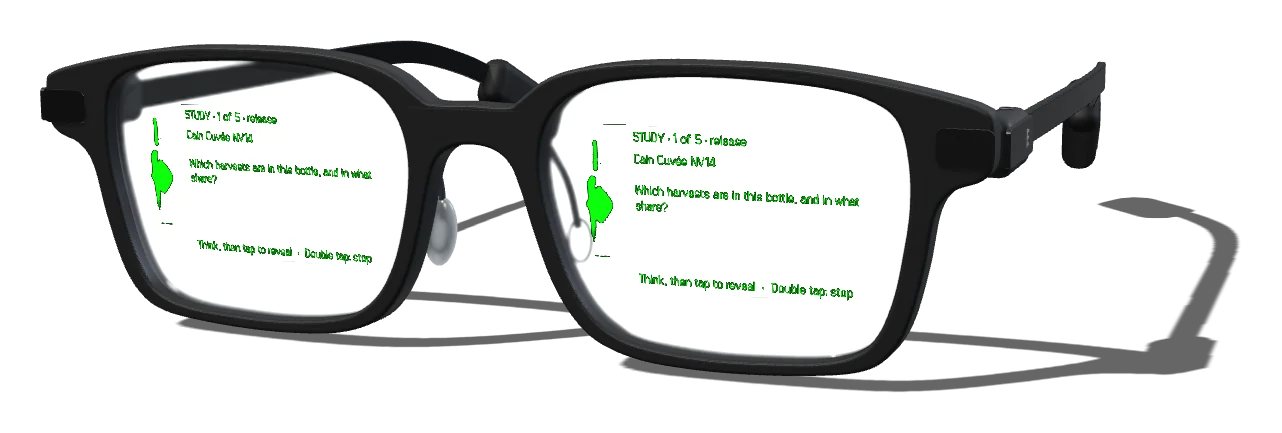
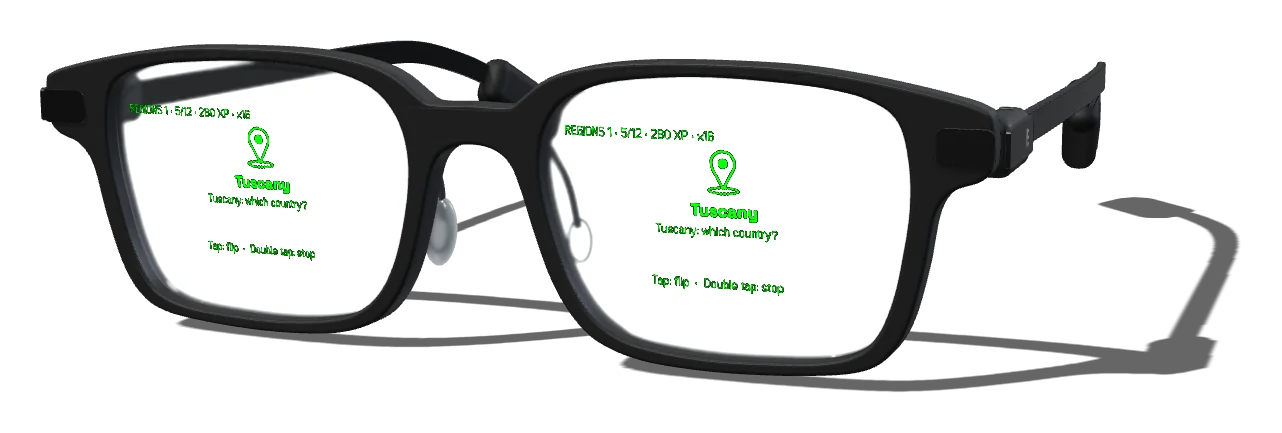
Site: Wine cards and Find My Wine sections, Find My Wine in the 3D viewer, new Study cards
- Wine cards (03): what a token buys, with an illustrated card (original bottle,
  catalog notes, year, map pin) and the price line.
- Find My Wine (04): the five questions, reasons, Winebrary-aware picks and the
  sommelier, with a 3D render of a real simulator capture.
- 3D viewer: a Find My Wine screen between Winebrary and Atlas.
- Study now shows the seasons flash cards (new capture and render, new copy).
- Nav link and two FAQ answers (wine cards, how Find My Wine chooses).
- render-showcase: render only named stills; SwiftShader off macOS.

Claude-Session: https://claude.ai/code/session_01BUt2YkG7vrXdoRQ2r3sZbM

diff --git a/site/index.html b/site/index.html
@@ -3,7 +3,7 @@
 <link rel="stylesheet" href="/g2b/showcase.css">
 <script type="module" src="/glasses-3d.ts"></script><script type="module" src="/main.ts"></script><link rel="icon" type="image/svg+xml" href="/brand/favicon.svg"><link rel="icon" type="image/png" sizes="32x32" href="/brand/favicon-32.png"><link rel="apple-touch-icon" href="/brand/app-icon-180.png"><link rel="manifest" href="/brand/manifest.webmanifest"><meta property="og:image" content="https://sommni-beige.vercel.app/brand/social-card.png"><meta name="twitter:card" content="summary_large_image"></head>
 <body><a class="skip" href="#main">Skip to content</a>
-<header class="nav"><a class="wordmark" href="/" aria-label="wineLENS home"><img src="/brand/lockup.svg" alt="wineLENS" width="189" height="40"></a><button class="menu-toggle" aria-expanded="false" aria-controls="nav-links">Menu <span aria-hidden="true">＋</span></button><nav id="nav-links" aria-label="Main"><a href="#glasses">Glasses</a><a href="#winebrary">Winebrary</a><a href="#atlas">Atlas</a><a href="#study">Study</a><a href="#pricing">Pricing</a><a href="#faq">FAQ</a><a class="nav-account" href="/link">Link glasses ↗</a><a class="button small" href="https://hub.evenrealities.com/" target="_blank" rel="noopener noreferrer">Get it in Even Hub ↗</a></nav></header>
+<header class="nav"><a class="wordmark" href="/" aria-label="wineLENS home"><img src="/brand/lockup.svg" alt="wineLENS" width="189" height="40"></a><button class="menu-toggle" aria-expanded="false" aria-controls="nav-links">Menu <span aria-hidden="true">＋</span></button><nav id="nav-links" aria-label="Main"><a href="#glasses">Glasses</a><a href="#winebrary">Winebrary</a><a href="#finder">Find My Wine</a><a href="#atlas">Atlas</a><a href="#study">Study</a><a href="#pricing">Pricing</a><a href="#faq">FAQ</a><a class="nav-account" href="/link">Link glasses ↗</a><a class="button small" href="https://hub.evenrealities.com/" target="_blank" rel="noopener noreferrer">Get it in Even Hub ↗</a></nav></header>
 <main id="main">
 <section class="hero wrap"><div class="hero-copy"><p class="eyebrow"><span class="dot"></span> A LITTLE CLARITY. A LOT OF CHARACTER.</p><h1>WINE.<br>IN.<br><em>FOCUS.</em></h1><p class="intro">Know the bottle.<br>Stay in the moment.</p><p class="hero-description">Tasting notes in your line of sight. A home for the wines you love. A little more to discover with every glass.</p><div class="actions"><a class="button" href="/link">Link your glasses <span>↗</span></a><a class="text-link" href="#glasses">Take a closer look ↓</a></div><p class="micro">Made for Even G2 · Free to start · Tokens from $5</p></div>
 <div class="hero-art"><span class="art-index">FIELD NOTES / 01</span><div class="lens-orbit" aria-hidden="true"><img src="/brand/symbol.svg" alt="" width="480" height="480"></div><figure class="hero-render"><img src="/media/lens/hero-notes.webp" width="1146" height="430" alt="Even G2 in 3D, turned three-quarters, with wineLENS tasting notes for Louis Latour Aloxe-Corton on both lenses: Pinot Noir, bright ruby with garnet hints, red cherry and raspberry compote." fetchpriority="high"></figure>
@@ -22,6 +22,7 @@
     <div class="g2b-features" role="group" aria-label="Choose a screen">
       <button type="button" data-g2b-beat="notes" aria-pressed="true">Tasting notes</button>
       <button type="button" data-g2b-beat="winebrary" aria-pressed="false">Winebrary</button>
+      <button type="button" data-g2b-beat="finder" aria-pressed="false">Find My Wine</button>
       <button type="button" data-g2b-beat="atlas" aria-pressed="false">Atlas</button>
       <button type="button" data-g2b-beat="study" aria-pressed="false">Study</button>
     </div>
@@ -39,10 +40,10 @@
 <p class="caption">RENDER / A 3D model of Even G2 with real wineLENS simulator captures on its lenses. It turns as you scroll; drag it round or pick a screen. Not a photograph, and not a claim of optical brightness.</p></div></section>
 <section id="winebrary" class="wrap section feature"><div class="feature-number" aria-hidden="true">02</div><div><p class="eyebrow">MY WINEBRARY</p><h2>Good taste<br><em>has a memory.</em></h2><p class="body-large">That bottle from dinner. The vintage you want to revisit. The one you’re saving for an occasion.</p><p>Keep them in a collection that belongs to your account. Add your own notes and bottle photographs. Save another vintage without losing the first. Or upload a whole wine list and keep the bottles you want.</p><a class="text-link" href="/link">Make room for your first bottle ↗</a></div><div class="collection-art"><div class="collection-word">YOUR<br>VERY<br>GOOD<br><em>TASTE.</em></div><figure class="collection-render"><img src="/media/lens/still-winebrary.webp" width="1278" height="426" alt="Even G2 in 3D with a Winebrary wine on its lenses: Grand Malbec 2017 with tasting notes, and the bottle standing on Mendoza on a dithered map of Argentina. Sample collection." loading="lazy"></figure>
 <div class="collection-footer"><span>Every bottle has a story.</span><span aria-hidden="true"><img class="brand-strip-mark" src="/brand/micro.svg" alt="" width="32" height="32"></span></div></div></section>
-<section id="atlas" class="atlas-section"><div class="wrap section feature"><div class="feature-number" aria-hidden="true">03</div><div><p class="eyebrow">WINE ATLAS</p><h2>A world<br><em>in your glass.</em></h2><p class="body-large">Start with the globe.<br>Find your way to the bottle.</p><p>Travel from country to region to wine. Explore the catalog, or follow the places in your own collection. Geography becomes something you can taste.</p><p class="micro">Globe → country → region → wine</p></div><figure class="render-card"><img src="/media/lens/still-atlas.webp" width="1145" height="430" alt="Even G2 in 3D with the Wine Atlas on its lenses: WINE ATLAS, 15 countries, Argentina, France, Italy, United States, Spain, beside a globe with Argentina lit." loading="lazy"><figcaption>RENDER / 3D G2 + real simulator capture · Wine Atlas</figcaption></figure></div></section>
-<section id="study" class="wrap section feature"><div class="feature-number" aria-hidden="true">04</div><div><p class="eyebrow">STUDY</p><h2>Less cramming.<br><em>More remembering.</em></h2><p class="body-large">A question. A moment to recall.<br>Then the answer, with its source.</p><p>Practice on your phone or G2. Rate what you remembered and let spaced recall bring it back when it’s due. Your review history stays with your linked account.</p><p class="micro">Recall → reveal → review → return</p></div><figure class="render-card"><img src="/media/lens/still-study.webp" width="1282" height="433" alt="Even G2 in 3D with a Study card on its lenses: STUDY 1 of 5, Cain Cuvée NV14, Which harvests are in this bottle, and in what share? beside the bottle." loading="lazy"><figcaption>RENDER / 3D G2 + real simulator capture · Study</figcaption></figure></section>
+<section id="cards" class="tint-section"><div class="wrap section feature"><div class="feature-number" aria-hidden="true">03</div><div><p class="eyebrow">WINE CARDS</p><h2>Your bottle.<br><em>Your card.</em></h2><p class="body-large">Every wine you keep can become a card: the bottle in 3D, its tasting notes, the year, and a pin on your map.</p><p>Make one for a single bottle, or for every wine on a list you just saved. It lives in your Winebrary and right on your glasses. One token a card, and your first three are on us.</p><p class="micro">1 card = 1 token · a 100-wine list is $20</p><a class="text-link" href="#pricing">See pricing ↓</a></div><figure class="wine-card-art"><div class="wine-card"><div class="wine-card-bottle"><svg viewBox="0 0 120 360" role="img" aria-label="An original wine bottle with a plain label reading Malbec 2017"><defs><linearGradient id="wc-glass" x1="0" x2="1"><stop offset="0" stop-color="#1A0E10"/><stop offset=".28" stop-color="#5A2430"/><stop offset=".55" stop-color="#2B1418"/><stop offset="1" stop-color="#120A0B"/></linearGradient><linearGradient id="wc-cap" x1="0" x2="1"><stop offset="0" stop-color="#4A1A24"/><stop offset=".35" stop-color="#9A4352"/><stop offset="1" stop-color="#3A1219"/></linearGradient><linearGradient id="wc-shine" x1="0" x2="1"><stop offset="0" stop-color="#fff" stop-opacity="0"/><stop offset=".5" stop-color="#fff" stop-opacity=".38"/><stop offset="1" stop-color="#fff" stop-opacity="0"/></linearGradient></defs><ellipse cx="60" cy="352" rx="44" ry="6" fill="#5B1C2A" opacity=".18"/><path d="M47 70 L47 118 C47 148 21 158 21 196 L21 338 Q21 350 33 350 L87 350 Q99 350 99 338 L99 196 C99 158 73 148 73 118 L73 70 Z" fill="url(#wc-glass)"/><rect x="45" y="8" width="30" height="70" rx="4" fill="url(#wc-cap)"/><rect x="45" y="70" width="30" height="5" fill="#2A0F14" opacity=".6"/><path d="M31 196 C31 170 50 160 53 132 L57 132 C55 162 37 172 37 198 L37 330 L31 330 Z" fill="url(#wc-shine)"/><rect x="29" y="222" width="62" height="84" fill="#FBF7EF"/><rect x="29" y="222" width="62" height="84" fill="none" stroke="#C9B7AB" stroke-width=".8"/><text x="60" y="252" text-anchor="middle" font-size="9" letter-spacing="2" fill="#772B39" font-family="Space, sans-serif" font-weight="700">MALBEC</text><line x1="40" y1="262" x2="80" y2="262" stroke="#772B39" stroke-width=".8"/><text x="60" y="284" text-anchor="middle" font-size="15" fill="#302822" font-family="Space, sans-serif">2017</text></svg></div><div class="wine-card-body"><p class="eyebrow">RED · MALBEC</p><h3>Grand Malbec <span>2017</span></h3><p class="wine-card-place">Terrazas de los Andes · Mendoza, Argentina</p><dl><div><dt>NOSE</dt><dd>Ripe blackberry, plum, violet, cocoa, sweet spice.</dd></div><div><dt>PALATE</dt><dd>Full body, firm tannins. Concentrated dark fruit with chocolate and spice.</dd></div></dl><p class="wine-card-pin"><span aria-hidden="true">◉</span> On your map · Mendoza</p></div></div><ol class="wine-card-parts"><li><span>01</span>A 3D bottle image</li><li><span>02</span>Tasting notes</li><li><span>03</span>The year</li><li><span>04</span>A pin on your map</li></ol><figcaption>ILLUSTRATION / What a wine card holds. Every bottle gets an original label, made from your photo or the wine’s details.</figcaption></figure></div></section><section id="finder" class="wrap section feature"><div class="feature-number" aria-hidden="true">04</div><div><p class="eyebrow">FIND MY WINE</p><h2>Ask like<br><em>a sommelier.</em></h2><p class="body-large">The moment. The food.<br>How it should feel.</p><p>Five quick questions on your glasses or phone, then picks from the catalog and your own Winebrary, each with the reason a sommelier would give. Tap one for its notes, tap again to keep it. Want something beyond the list? Ask the sommelier for three real bottles from anywhere.</p><p class="micro">Moment → food → colour → feel → flavour</p></div><figure class="render-card"><img src="/media/lens/still-finder.webp" width="1145" height="430" alt="Even G2 in 3D with Find My Wine on its lenses: picks for a steak dinner, Barbaresco by Gaja highlighted beside its bottle, with the reasons: tannin and depth for red meat, Nebbiolo is a classic; bold and powerful; on the nose, cherry." loading="lazy"><figcaption>RENDER / 3D G2 + real simulator capture · Find My Wine</figcaption></figure></section><section id="atlas" class="atlas-section"><div class="wrap section feature"><div class="feature-number" aria-hidden="true">05</div><div><p class="eyebrow">WINE ATLAS</p><h2>A world<br><em>in your glass.</em></h2><p class="body-large">Start with the globe.<br>Find your way to the bottle.</p><p>Travel from country to region to wine. Explore the catalog, or follow the places in your own collection. Geography becomes something you can taste.</p><p class="micro">Globe → country → region → wine</p></div><figure class="render-card"><img src="/media/lens/still-atlas.webp" width="1145" height="430" alt="Even G2 in 3D with the Wine Atlas on its lenses: WINE ATLAS, 15 countries, Argentina, France, Italy, United States, Spain, beside a globe with Argentina lit." loading="lazy"><figcaption>RENDER / 3D G2 + real simulator capture · Wine Atlas</figcaption></figure></div></section>
+<section id="study" class="wrap section feature"><div class="feature-number" aria-hidden="true">06</div><div><p class="eyebrow">STUDY</p><h2>Less cramming.<br><em>More remembering.</em></h2><p class="body-large">A card. A moment to recall.<br>Then flip it, and keep your streak.</p><p>Seasons of flash cards on grapes, regions, tasting notes and the people behind the bottles, each with a glyph at its centre. Clear a stage, earn stars, beat the boss. Daily review brings back what you are about to forget. Your progress stays with your linked account.</p><p class="micro">Meet → recall → flip → remember</p></div><figure class="render-card"><img src="/media/lens/still-study.webp" width="1282" height="433" alt="Even G2 in 3D with a Study flash card on its lenses: REGIONS 1, 5 of 12, 280 XP, a map pin glyph centred above Tuscany, and the question Tuscany: which country?" loading="lazy"><figcaption>RENDER / 3D G2 + real simulator capture · Study</figcaption></figure></section>
 <section id="how" class="link-section"><div class="wrap section"><p class="eyebrow">ONE ACCOUNT. A SMALL CONNECTION.</p><div class="section-heading inline"><h2>Three steps.<br><em>You’re in.</em></h2><a class="button light" href="/link">Link your account ↗</a></div><ol class="steps"><li><span>01</span><h3>Open the link page.</h3><p>Continue with Google in your phone’s browser. No password to remember.</p></li><li><span>02</span><h3>Get your code.</h3><p>Eight characters, made for you. The code works once and lasts ten minutes.</p></li><li><span>03</span><h3>Make the connection.</h3><p>In wineLENS inside the Even app, choose Link account and enter your code.</p></li></ol></div></section>
 <section id="pricing" class="wrap section"><p class="eyebrow">A PLAN FOR YOUR CURIOSITY</p><h2>Start free.<br><em>Pay per wine card.</em></h2><div id="pricing-cards" class="pricing-grid"></div><p id="pricing-tokens"></p><p id="pricing-rates" class="fine"></p><p class="fine">USD. The app is free, with no subscription. Your first token pack unlocks the larger monthly allowances for life; they reset on your purchase anniversary. Billing opens after launch setup. Tokens never expire. <a href="/terms">Terms and refunds</a>.</p><a class="text-link" href="/link">Your plan and usage ↗</a></section>
-<section id="faq" class="wrap section faq"><div><p class="eyebrow">A FEW STRAIGHT ANSWERS</p><h2>Before<br><em>you pour.</em></h2></div><div class="faq-items"><details><summary>Is wineLENS free?</summary><p>Yes. The catalog, tasting notes, Atlas, Study, manual add and your own bottle photos are free. Free includes five label scans, five drafted tasting notes and a small wine-list allowance each month (notes someone has already drafted for the same bottle and vintage are always free). Your first three wine cards are on us. After that, wine cards are one token each, with tokens from $5 (20 cards), and your first pack also unlocks larger monthly allowances for life.</p></details><details><summary>Can I upload a wine list?</summary><p>Yes. Photograph its pages (up to six at a time), upload a PDF, paste the text or choose a spreadsheet (CSV). wineLENS reads every wine, matches it to the catalog, places it on the globe and shows which already have notes. You review every wine before anything is saved. Free includes one photo page and 20 text pages a month, and after your first token pack 20 photo pages and 100 text pages; after that each page uses one token. Spreadsheets are always free. Then make wine cards for the whole list: one token each, so a 100-wine list is $20.</p></details><details><summary>What are tokens?</summary><p>1 token = 1 wine card: a 3D bottle image, tasting notes, the year and a pin on your map, every time. Included allowances are used first for scans and lists, then tokens only with your consent or Always allow enabled. A failed generation returns its allowance or tokens.</p></details><details><summary>Do tokens expire? Can I get a refund?</summary><p>Tokens never expire. Purchases are generally non-refundable once used; contact ops@d3hospitality.com about unused purchases or billing errors. Statutory refund rights remain unaffected. See our <a href="/terms">terms</a>.</p></details><details><summary>Is there a subscription?</summary><p>No. The app is free. You buy tokens only when you want more wine cards, in packs from $5 to $50. Tokens never expire. Deleting your account forfeits the balance, subject to applicable refund rights.</p></details><details><summary>What do I need?</summary><p>Even G2 glasses and the Even app for the glasses experience. The phone companion runs inside Even Hub. Use a regular browser for Google sign-in.</p></details><details><summary>Is my collection private?</summary><p>Your Winebrary is tied to your account. Other users cannot browse it. The shared wine reference catalog is separate from your own bottles, photos and notes.</p></details><details><summary>What data is stored?</summary><p>Your Google account email and profile, saved bottles and photos, tasting notes, study reviews and linked-device records. The app also keeps local companion data. See our <a href="/privacypolicy">privacy policy</a> for the full picture.</p></details><details><summary>Can I use it without an account?</summary><p>You can explore the reference catalog, Atlas and local study. Link an account to save a private Winebrary and sync study reviews. An internet connection is needed for account linking and cloud features.</p></details><details><summary>Can I unlink a device or delete my account?</summary><p>Yes. Sign in on the <a href="/link">link page</a> to revoke a device or confirm account deletion. Deletion removes your account, private collection, cloud photos and account study reviews. It cannot be undone. Locally saved data on offline devices clears when the app reconnects and checks the account.</p></details></div></section>
+<section id="faq" class="wrap section faq"><div><p class="eyebrow">A FEW STRAIGHT ANSWERS</p><h2>Before<br><em>you pour.</em></h2></div><div class="faq-items"><details><summary>Is wineLENS free?</summary><p>Yes. The catalog, tasting notes, Atlas, Study, manual add and your own bottle photos are free. Free includes five label scans, five drafted tasting notes and a small wine-list allowance each month (notes someone has already drafted for the same bottle and vintage are always free). Your first three wine cards are on us. After that, wine cards are one token each, with tokens from $5 (20 cards), and your first pack also unlocks larger monthly allowances for life.</p></details><details><summary>What is a wine card?</summary><p>A wine card turns a bottle you keep into its own page: a 3D bottle image (from your label photo, or an original label drawn from the wine’s details), tasting notes, the vintage and a pin on your map and glasses. Each card uses one token, every time it is made. Your first three are on us.</p></details><details><summary>How does Find My Wine choose?</summary><p>It asks about the moment, the food, the colour, how the wine should feel and the flavours you want, then scores every wine in the catalog and your Winebrary with classic pairing rules and shows the reasons with each pick. It learns from what you keep. Ask the sommelier for three real bottles beyond the catalog: three free a month, then one token each.</p></details><details><summary>Can I upload a wine list?</summary><p>Yes. Photograph its pages (up to six at a time), upload a PDF, paste the text or choose a spreadsheet (CSV). wineLENS reads every wine, matches it to the catalog, places it on the globe and shows which already have notes. You review every wine before anything is saved. Free includes one photo page and 20 text pages a month, and after your first token pack 20 photo pages and 100 text pages; after that each page uses one token. Spreadsheets are always free. Then make wine cards for the whole list: one token each, so a 100-wine list is $20.</p></details><details><summary>What are tokens?</summary><p>1 token = 1 wine card: a 3D bottle image, tasting notes, the year and a pin on your map, every time. Included allowances are used first for scans and lists, then tokens only with your consent or Always allow enabled. A failed generation returns its allowance or tokens.</p></details><details><summary>Do tokens expire? Can I get a refund?</summary><p>Tokens never expire. Purchases are generally non-refundable once used; contact ops@d3hospitality.com about unused purchases or billing errors. Statutory refund rights remain unaffected. See our <a href="/terms">terms</a>.</p></details><details><summary>Is there a subscription?</summary><p>No. The app is free. You buy tokens only when you want more wine cards, in packs from $5 to $50. Tokens never expire. Deleting your account forfeits the balance, subject to applicable refund rights.</p></details><details><summary>What do I need?</summary><p>Even G2 glasses and the Even app for the glasses experience. The phone companion runs inside Even Hub. Use a regular browser for Google sign-in.</p></details><details><summary>Is my collection private?</summary><p>Your Winebrary is tied to your account. Other users cannot browse it. The shared wine reference catalog is separate from your own bottles, photos and notes.</p></details><details><summary>What data is stored?</summary><p>Your Google account email and profile, saved bottles and photos, tasting notes, study reviews and linked-device records. The app also keeps local companion data. See our <a href="/privacypolicy">privacy policy</a> for the full picture.</p></details><details><summary>Can I use it without an account?</summary><p>You can explore the reference catalog, Atlas and local study. Link an account to save a private Winebrary and sync study reviews. An internet connection is needed for account linking and cloud features.</p></details><details><summary>Can I unlink a device or delete my account?</summary><p>Yes. Sign in on the <a href="/link">link page</a> to revoke a device or confirm account deletion. Deletion removes your account, private collection, cloud photos and account study reviews. It cannot be undone. Locally saved data on offline devices clears when the app reconnects and checks the account.</p></details></div></section>
 <section class="closing wrap"><p class="eyebrow">FOR CURIOUS PALATES.</p><h2>A little more<br><em>in focus.</em></h2><a class="button" href="/link">Link your glasses ↗</a><p class="micro">Free to start · tokens from $5, no subscription. Made for Even G2.</p></section>
 </main><footer class="footer wrap"><a class="wordmark" href="/"><img src="/brand/lockup.svg" alt="wineLENS" width="189" height="40"></a><p>WINE. IN. FOCUS.<br>A D3 Hospitality project.</p><nav aria-label="Footer"><a href="/privacypolicy">Privacy</a><a href="/terms">Terms</a><a href="mailto:ops@d3hospitality.com">Contact ↗</a></nav><small>© 2026 D3 Hospitality</small></footer></body></html>

diff --git a/site/style.css b/site/style.css
@@ -4,8 +4,8 @@
 /* Link and policy pages */
 .account-main{padding-block:68px 90px;display:grid;grid-template-columns:1fr 1.1fr;gap:85px;align-items:start;min-height:calc(100vh - 206px)}.account-intro h1,.legal h1{font-size:clamp(44px,5.7vw,76px);line-height:1.02;letter-spacing:-.065em;margin:24px 0}.account-intro>p:not(.eyebrow){font-size:15px;max-width:360px}.account-intro .account-steps{margin:38px 0 0;padding:0;list-style:none;counter-reset:step}.account-steps li{counter-increment:step;border-top:1px solid var(--line);padding:19px 0;font-size:13px;display:flex;gap:25px}.account-steps li:before{content:'0' counter(step);color:var(--oxblood);font-size:12px}.account-panel{border:1px solid var(--line);padding:36px;background:#FFFDF8;min-width:0}.account-panel h2{font-size:28px}.account-panel>p{font-size:13px;margin-top:18px}.account-panel .button{width:100%;margin-top:24px}.account-icon{font-size:64px;color:var(--oxblood);margin-bottom:30px;line-height:1}.account-panel .eyebrow{margin-bottom:18px}.account-panel .fine{font-size:11px;color:var(--muted)}.status{font-size:13px;line-height:1.6;overflow-wrap:anywhere}.status:not(:empty){margin-top:22px;padding:14px;background:var(--blush)}.account-panel .email{overflow-wrap:anywhere;font-size:13px;margin:15px 0 25px}.code-panel{background:var(--ivory);padding:28px 12px;text-align:center;border:1px solid var(--line)}.code-value{font-size:clamp(26px,3vw,40px);font-weight:700;letter-spacing:.12em;color:var(--oxblood);display:block;margin:12px 0}.code-panel p{font-size:12px}.code-actions{display:flex;gap:12px}.code-actions .button{font-size:12px;padding:13px 8px;margin-top:16px;gap:0}.device-section{margin-top:32px;border-top:1px solid var(--line);padding-top:24px}.device-section h3{font-size:19px}.device-list{list-style:none;margin:18px 0;padding:0}.device-list li{display:flex;justify-content:space-between;gap:16px;padding:17px 0;border-bottom:1px solid var(--line);font-size:13px;align-items:center}.device-list small{display:block;color:var(--muted);font-size:10px;margin-top:5px}.plain-button{background:none;border:0;padding:12px 0;min-height:44px;text-decoration:underline;text-underline-offset:4px;font-size:12px;color:var(--oxblood)}.account-bottom{display:flex;justify-content:space-between;gap:20px;margin-top:22px}.confirm-dialog{max-width:min(480px,calc(100% - 36px));border:1px solid var(--line);background:var(--ivory);color:var(--ink);padding:32px}.confirm-dialog::backdrop{background:#302822aa}.confirm-dialog h2{font-size:32px}.confirm-dialog p{font-size:14px;margin:18px 0}.confirm-dialog label{display:block;font-size:13px}.confirm-dialog input{width:100%;background:#fff;border:1px solid var(--line);padding:13px;margin:12px 0}.confirm-dialog .button{width:100%}.legal{max-width:780px;padding-block:64px 90px}.legal h2{font-size:26px;margin:34px 0 14px}.legal p,.legal li{font-size:15px;line-height:1.8}.legal .eyebrow{font-size:11px}.legal p+p{margin-top:16px}
 @media(min-width:1600px){.hero{min-height:820px}}
-@media(max-width:1100px){.nav nav{gap:14px}.nav{gap:20px}.nav nav>a:nth-child(-n+5){display:none}.hero{gap:28px}.hero-art{padding:25px}.actions{flex-wrap:wrap;gap:18px}.feature{grid-template-columns:40px 1fr 1fr;gap:26px}.surface-card{padding:28px}.account-main{gap:42px}}
-@media(max-width:700px){:root{scroll-padding-top:84px}.wrap{width:calc(100% - 40px)}.section{padding-block:64px}.nav{min-height:74px;padding:16px 20px;flex-wrap:wrap}.wordmark{font-size:26px}.menu-toggle{display:flex;gap:20px;background:none;border:1px solid var(--line);padding:10px 12px;font-size:12px;min-height:42px}.nav nav{display:none;width:100%;padding:15px 0;flex-direction:column;align-items:stretch;gap:0}.nav nav.open{display:flex}.nav nav>a:nth-child(-n+5){display:block}.nav nav>a{padding:14px 0}.nav-account{border-left:0}.nav nav .button{padding:15px}.hero{grid-template-columns:1fr;gap:35px;padding-top:32px;padding-bottom:36px;min-height:0}.hero-copy>.eyebrow{font-size:9px;letter-spacing:.065em}.hero-copy h1{font-size:92px;margin:27px 0 24px}.intro{font-size:24px}.hero-description{font-size:14px;max-width:315px}.actions{gap:22px;margin-top:24px}.button{font-size:12px;padding:16px 19px}.hero-art{min-height:395px;padding:26px;margin-top:0}.art-index{left:20px;top:20px}.lens-orbit{font-size:420px;top:5px}.hero-screen{padding:16px 13px;margin-top:10px}.vintage-note{width:72%;padding:14px 19px;margin-top:16px}.vintage-note .eyebrow{font-size:9px}.vintage-note>span:last-child{font-size:31px}.art-caption{font-size:8px;bottom:16px;left:20px}.loop-strip{font-size:22px;padding:23px 13px;gap:7px}.loop-strip span:last-child{display:none}h2{font-size:40px}.section-heading{margin-bottom:32px}.eyebrow{font-size:10px}.surface-grid{grid-template-columns:1fr;gap:18px}.surface-card{padding:27px}.surface-card h3{font-size:27px}.surface-card>img{margin-top:28px}.phone-slice{height:210px}.model-section{padding-top:58px}.model-heading{display:block}.model-heading>p{margin-top:24px}.model-heading h2{font-size:37px}.g2-viewer{height:295px;margin-top:18px}.g2-viewer>img{max-width:100%}.g2-viewer>button{bottom:6px}.model-controls{flex-direction:column;align-items:stretch;margin-top:15px}.model-controls label{justify-content:space-between}.screen-choices button{flex:1;padding:10px}.model-section .caption{font-size:9px}.feature{grid-template-columns:1fr;gap:28px}.feature-number{display:none}.feature .eyebrow{margin-bottom:19px}.feature .body-large{font-size:20px;margin-top:23px}.collection-art{padding:30px}.collection-word{font-size:66px}.capture-card{padding:18px}.capture-card figcaption{font-size:9px}.inline{align-items:flex-start;gap:24px;flex-direction:column}.steps{grid-template-columns:1fr;gap:28px;margin-top:34px}.steps h3{margin-top:15px;font-size:23px}.steps p{max-width:100%}.faq{grid-template-columns:1fr;gap:30px}.faq-items summary{font-size:15px;padding-block:23px}.closing{padding-block:62px}.closing h2{font-size:56px}.footer{flex-wrap:wrap;gap:24px;padding-block:28px}.footer>.wordmark{width:45%}.footer>p{width:45%}.footer nav{gap:26px}.footer small{width:100%}.account-main{grid-template-columns:1fr;gap:32px;padding-top:38px;padding-bottom:50px}.account-intro h1{font-size:57px}.account-intro .account-steps{margin-top:24px}.account-steps li{padding:14px 0;font-size:12px}.account-panel{padding:25px}.account-icon{font-size:50px;margin-bottom:24px}.account-panel h2{font-size:28px}.code-value{font-size:29px;letter-spacing:.085em}.account-bottom{gap:12px}.plain-button{font-size:11px}.legal{padding-top:38px}.legal h1{font-size:53px}.legal h2{font-size:25px}}
+@media(max-width:1100px){.nav nav{gap:14px}.nav{gap:20px}.nav nav>a:nth-child(-n+6){display:none}.hero{gap:28px}.hero-art{padding:25px}.actions{flex-wrap:wrap;gap:18px}.feature{grid-template-columns:40px 1fr 1fr;gap:26px}.surface-card{padding:28px}.account-main{gap:42px}}
+@media(max-width:700px){:root{scroll-padding-top:84px}.wrap{width:calc(100% - 40px)}.section{padding-block:64px}.nav{min-height:74px;padding:16px 20px;flex-wrap:wrap}.wordmark{font-size:26px}.menu-toggle{display:flex;gap:20px;background:none;border:1px solid var(--line);padding:10px 12px;font-size:12px;min-height:42px}.nav nav{display:none;width:100%;padding:15px 0;flex-direction:column;align-items:stretch;gap:0}.nav nav.open{display:flex}.nav nav>a:nth-child(-n+6){display:block}.nav nav>a{padding:14px 0}.nav-account{border-left:0}.nav nav .button{padding:15px}.hero{grid-template-columns:1fr;gap:35px;padding-top:32px;padding-bottom:36px;min-height:0}.hero-copy>.eyebrow{font-size:9px;letter-spacing:.065em}.hero-copy h1{font-size:92px;margin:27px 0 24px}.intro{font-size:24px}.hero-description{font-size:14px;max-width:315px}.actions{gap:22px;margin-top:24px}.button{font-size:12px;padding:16px 19px}.hero-art{min-height:395px;padding:26px;margin-top:0}.art-index{left:20px;top:20px}.lens-orbit{font-size:420px;top:5px}.hero-screen{padding:16px 13px;margin-top:10px}.vintage-note{width:72%;padding:14px 19px;margin-top:16px}.vintage-note .eyebrow{font-size:9px}.vintage-note>span:last-child{font-size:31px}.art-caption{font-size:8px;bottom:16px;left:20px}.loop-strip{font-size:22px;padding:23px 13px;gap:7px}.loop-strip span:last-child{display:none}h2{font-size:40px}.section-heading{margin-bottom:32px}.eyebrow{font-size:10px}.surface-grid{grid-template-columns:1fr;gap:18px}.surface-card{padding:27px}.surface-card h3{font-size:27px}.surface-card>img{margin-top:28px}.phone-slice{height:210px}.model-section{padding-top:58px}.model-heading{display:block}.model-heading>p{margin-top:24px}.model-heading h2{font-size:37px}.g2-viewer{height:295px;margin-top:18px}.g2-viewer>img{max-width:100%}.g2-viewer>button{bottom:6px}.model-controls{flex-direction:column;align-items:stretch;margin-top:15px}.model-controls label{justify-content:space-between}.screen-choices button{flex:1;padding:10px}.model-section .caption{font-size:9px}.feature{grid-template-columns:1fr;gap:28px}.feature-number{display:none}.feature .eyebrow{margin-bottom:19px}.feature .body-large{font-size:20px;margin-top:23px}.collection-art{padding:30px}.collection-word{font-size:66px}.capture-card{padding:18px}.capture-card figcaption{font-size:9px}.inline{align-items:flex-start;gap:24px;flex-direction:column}.steps{grid-template-columns:1fr;gap:28px;margin-top:34px}.steps h3{margin-top:15px;font-size:23px}.steps p{max-width:100%}.faq{grid-template-columns:1fr;gap:30px}.faq-items summary{font-size:15px;padding-block:23px}.closing{padding-block:62px}.closing h2{font-size:56px}.footer{flex-wrap:wrap;gap:24px;padding-block:28px}.footer>.wordmark{width:45%}.footer>p{width:45%}.footer nav{gap:26px}.footer small{width:100%}.account-main{grid-template-columns:1fr;gap:32px;padding-top:38px;padding-bottom:50px}.account-intro h1{font-size:57px}.account-intro .account-steps{margin-top:24px}.account-steps li{padding:14px 0;font-size:12px}.account-panel{padding:25px}.account-icon{font-size:50px;margin-bottom:24px}.account-panel h2{font-size:28px}.code-value{font-size:29px;letter-spacing:.085em}.account-bottom{gap:12px}.plain-button{font-size:11px}.legal{padding-top:38px}.legal h1{font-size:53px}.legal h2{font-size:25px}}
 @media(prefers-reduced-motion:reduce){:root{scroll-behavior:auto}*,*::before,*::after{animation:none!important;transition:none!important}}
 
 /* ── 3D showcase (vendored g2b, themed for Atelier) ── */
@@ -38,3 +38,23 @@
 /* Focus Pour identity: keep the 3D showcase and account behavior intact. */
 .wordmark{display:inline-flex;align-items:center;line-height:1}.wordmark img{height:40px;width:auto;max-width:none}.lens-orbit{display:grid;place-items:center;inset:0;pointer-events:none}.lens-orbit img{width:85%;height:auto;opacity:.13}.brand-strip-mark{width:32px;height:32px}.account-icon img{width:72px;height:72px}
 @media(max-width:700px){.wordmark img{height:32px}.lens-orbit img{width:90%}.brand-strip-mark{width:24px;height:24px}}
+/* Wine cards: what a token buys (an illustration of a card, not a capture) */
+.tint-section{background:#F0E8DD}
+.wine-card-art{margin:0;background:var(--blush);padding:36px;display:grid;gap:24px}
+.wine-card{display:grid;grid-template-columns:118px 1fr;gap:26px;align-items:center;background:#FFFDF8;border:1px solid var(--line);padding:26px;box-shadow:0 24px 44px rgb(91 28 42 / .13);transform:rotate(-1.4deg)}
+.wine-card-bottle svg{display:block;width:100%;height:auto}
+.wine-card .eyebrow{color:var(--oxblood);margin:0 0 8px}
+.wine-card h3{font-size:30px;margin:0}
+.wine-card h3 span{color:var(--oxblood)}
+.wine-card-place{font-size:12px;color:var(--muted);margin:6px 0 14px}
+.wine-card dl{margin:0;display:grid;gap:10px;border-top:1px solid var(--line);padding-top:14px}
+.wine-card dl div{display:grid;grid-template-columns:58px 1fr;gap:10px;font-size:12px;line-height:1.5}
+.wine-card dt{font-size:10px;font-weight:700;letter-spacing:.1em;color:var(--oxblood);padding-top:2px}
+.wine-card dd{margin:0}
+.wine-card-pin{font-size:11px;margin-top:14px}
+.wine-card-pin span{color:var(--oxblood)}
+.wine-card-parts{list-style:none;margin:0;padding:0;display:grid;grid-template-columns:repeat(4,1fr);gap:12px;font-size:12px;line-height:1.4}
+.wine-card-parts li{border-top:1px solid #BEA29B;padding-top:10px}
+.wine-card-parts span{display:block;color:var(--oxblood);font-size:11px;margin-bottom:4px}
+.wine-card-art figcaption{font-size:10px;letter-spacing:.08em;color:var(--muted)}
+@media(max-width:700px){.wine-card-art{padding:22px;gap:20px}.wine-card{grid-template-columns:78px 1fr;gap:16px;padding:18px;transform:none}.wine-card h3{font-size:23px}.wine-card dl div{grid-template-columns:1fr;gap:2px}.wine-card-parts{grid-template-columns:1fr 1fr}}

diff --git a/site/public/media/PROVENANCE.md b/site/public/media/PROVENANCE.md
@@ -20,3 +20,13 @@ The g2-notes / g2-library / g2-atlas / g2-study flat captures were replaced by r
 - `site/public/media/lens/*.webp`, `site/public/g2b/out/winelens/*`: the vendored G2B stage (3D Even G2 model,
   `site/public/g2b/ERG2B.web.glb`) with those captures on the lenses, rendered by `tools/render-showcase.cjs`
   from the live page. Renders, not photographs; display colour is simulated.
+
+## Find My Wine, Study and wine cards (October 8, 2026)
+- `site/public/g2b/media/winelens/glasses-finder.png`: real wineLENS capture from the Even Hub simulator 0.9.5
+  (automation port 9911), 576 × 288 on black: Find My Wine picks for Dinner · Steak & red meat · Red · Bold & powerful.
+- `site/public/g2b/media/winelens/glasses-study.png`: replaced with a Study seasons flash card (Regions 1, Tuscany),
+  same simulator.
+- `site/public/media/lens/still-finder.webp`, `still-study.webp`: rendered by `tools/render-showcase.cjs stills
+  still-finder,still-study` (SwiftShader on Linux; the other stills are unchanged Metal renders).
+- The wine card in the Wine cards section is an HTML/SVG illustration (an original bottle and label, with the catalog's
+  Grand Malbec notes), labelled ILLUSTRATION. It is not a capture.
